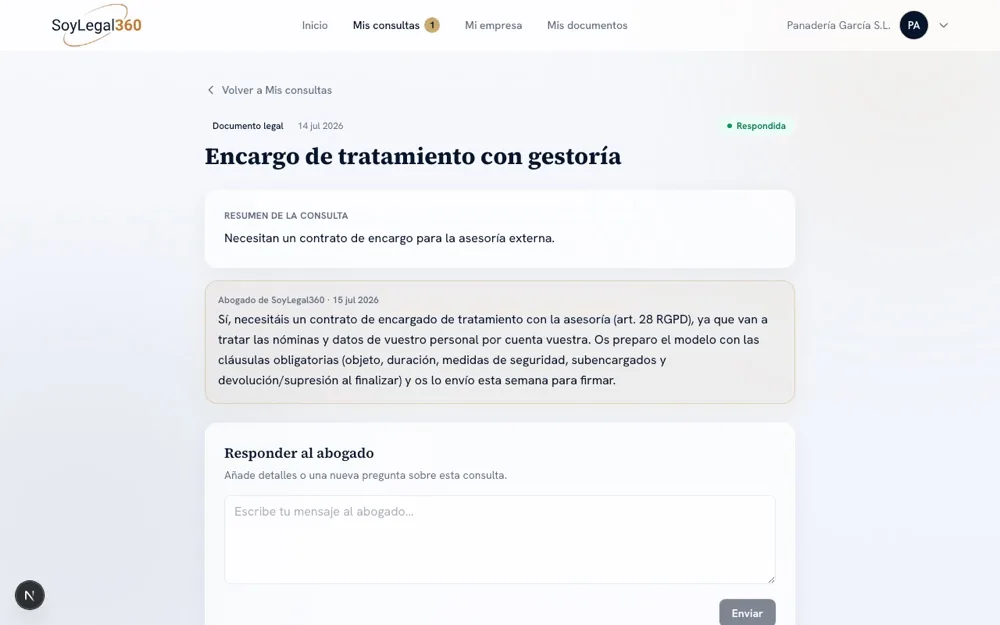
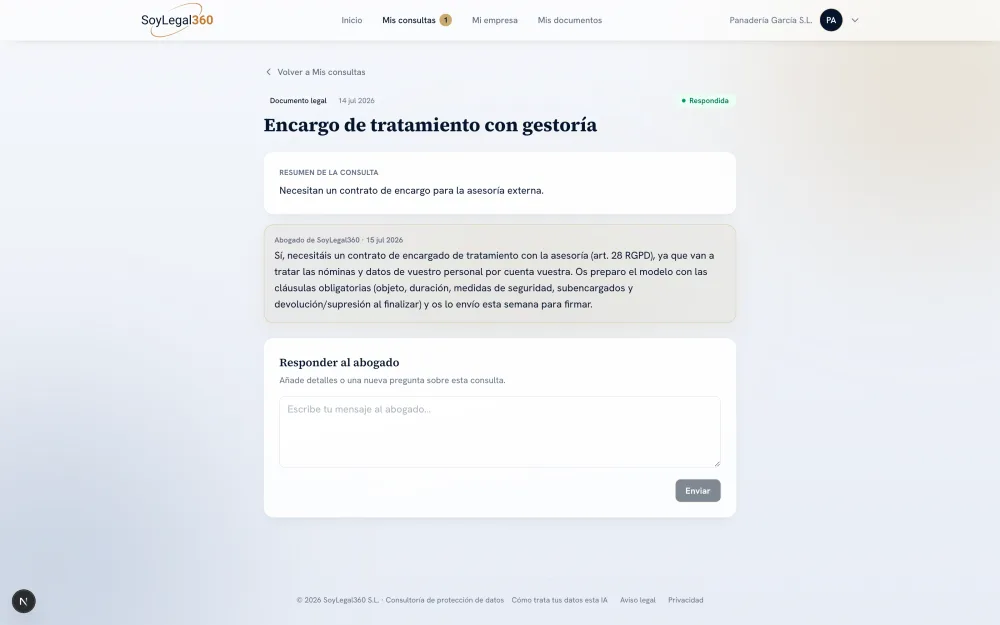
fix(web): capturas del área privada al día tras el rediseño del asistente
El área de cliente se rediseñó (packs, cristal, oro) y el carrusel seguía
enseñando la interfaz anterior: la web vendía una pantalla que el cliente
ya no encuentra al entrar. Se regeneran las tres diapositivas y el póster
del vídeo con capturas nuevas, tomadas de un cliente con datos completos
para que se vea el producto lleno (pack Continua Pyme, bolsa de horas,
consulta respondida por el abogado).

Los alt siguen siendo ciertos: la nueva captura del chat cita el art. 12.3
RGPD y el hilo, el art. 28. Se añade ?v=2 en las tres páginas que las usan
(home, Continua y área de clientes) porque /assets se sirve con caché
inmutable de un año y, sin bump, quien ya visitó la web vería las viejas.

PENDIENTE: el vídeo demo (assets/video/sl-app-demo.mp4) lo compone
scripts/gen-demo-video.py a partir de los .jpg, con rutas de puntero,
encuadres y resaltados calibrados a píxel sobre las capturas anteriores.
Sustituir los .jpg sin recalibrar rompería la coreografía, así que se deja
para una pasada propia.

diff --git a/area-de-clientes/index.html b/area-de-clientes/index.html
@@ -262,7 +262,7 @@
             <span class="sl-area-frame__dots" aria-hidden="true"><i></i><i></i><i></i></span>
             <span class="sl-area-frame__url">clientes.soylegal360.es</span>
           </div>
-          <video src="/assets/video/sl-app-demo.mp4?v=6" width="1000" height="626" autoplay muted loop playsinline preload="metadata" poster="/assets/img/sl-app-dashboard.webp" aria-label="Recorrido por el área privada: dashboard, asistente con cita verificada, respuesta del abogado y documentos"></video>
+          <video src="/assets/video/sl-app-demo.mp4?v=6" width="1000" height="626" autoplay muted loop playsinline preload="metadata" poster="/assets/img/sl-app-dashboard.webp?v=2" aria-label="Recorrido por el área privada: dashboard, asistente con cita verificada, respuesta del abogado y documentos"></video>
         </div>
       </div>
     </section>
@@ -278,7 +278,7 @@
             <p class="sl-area-quote">Si algo es serio, no te deja solo: <b>te lo deriva a un abogado</b> con un clic.</p>
           </div>
           <div class="sl-area-row__media">
-            <img src="/assets/img/sl-app-chat.webp" width="1000" height="625" alt="El asistente respondiendo una duda sobre el derecho de acceso citando el artículo 12 del RGPD" loading="lazy">
+            <img src="/assets/img/sl-app-chat.webp?v=2" width="1000" height="625" alt="El asistente respondiendo una duda sobre el derecho de acceso citando el artículo 12 del RGPD" loading="lazy">
           </div>
         </article>
 
@@ -289,7 +289,7 @@
             <p>Tu pack incluye <strong>consultas con abogado cada mes</strong>. Las planteas desde tu área, el abogado te responde por escrito y todo queda en su hilo: la pregunta, la respuesta y los documentos que salgan de ella.</p>
           </div>
           <div class="sl-area-row__media">
-            <img src="/assets/img/sl-app-consultas.webp" width="1000" height="625" alt="Consulta respondida por un abogado de SoyLegal360 sobre un encargo de tratamiento" loading="lazy">
+            <img src="/assets/img/sl-app-consultas.webp?v=2" width="1000" height="625" alt="Consulta respondida por un abogado de SoyLegal360 sobre un encargo de tratamiento" loading="lazy">
           </div>
         </article>
 
@@ -300,7 +300,7 @@
             <p>Tu RAT, tus políticas y la ficha de tu empresa, <strong>siempre en su última versión</strong>. Se acabó buscar el PDF bueno por el correo.</p>
           </div>
           <div class="sl-area-row__media">
-            <img src="/assets/img/sl-app-documentos.webp" width="1000" height="625" alt="Sección Mis documentos con el RAT, la política de privacidad y la de cookies" loading="lazy">
+            <img src="/assets/img/sl-app-documentos.webp?v=2" width="1000" height="625" alt="Sección Mis documentos con el RAT, la política de privacidad y la de cookies" loading="lazy">
           </div>
         </article>
 

diff --git a/index.html b/index.html
@@ -1594,19 +1594,19 @@
           </div>
           <div class="sl-app-carousel__track" data-track>
             <figure class="sl-app-carousel__slide">
-              <video style="display:block;width:100%;height:auto" src="/assets/video/sl-app-demo.mp4?v=6" width="1000" height="626" autoplay muted loop playsinline preload="metadata" poster="/assets/img/sl-app-dashboard.webp" aria-label="Demostración del área privada: dashboard, pregunta al asistente con cita verificada, respuesta del abogado y documentos"></video>
+              <video style="display:block;width:100%;height:auto" src="/assets/video/sl-app-demo.mp4?v=6" width="1000" height="626" autoplay muted loop playsinline preload="metadata" poster="/assets/img/sl-app-dashboard.webp?v=2" aria-label="Demostración del área privada: dashboard, pregunta al asistente con cita verificada, respuesta del abogado y documentos"></video>
               <figcaption><span class="sl-app-demo-chip">▶ Demo</span> El área completa, en 49 segundos</figcaption>
             </figure>
             <figure class="sl-app-carousel__slide">
-              <img src="/assets/img/sl-app-chat.webp" width="1000" height="625" alt="Conversación real con el asistente citando el artículo 12 del RGPD, verificado por abogados" loading="lazy">
+              <img src="/assets/img/sl-app-chat.webp?v=2" width="1000" height="625" alt="Conversación real con el asistente citando el artículo 12 del RGPD, verificado por abogados" loading="lazy">
               <figcaption>Cita solo lo verificado, nunca «de memoria»</figcaption>
             </figure>
             <figure class="sl-app-carousel__slide">
-              <img src="/assets/img/sl-app-consultas.webp" width="1000" height="625" alt="Hilo de Mis consultas con la respuesta de un abogado de SoyLegal360" loading="lazy">
+              <img src="/assets/img/sl-app-consultas.webp?v=2" width="1000" height="625" alt="Hilo de Mis consultas con la respuesta de un abogado de SoyLegal360" loading="lazy">
               <figcaption>Cuando importa, responde un abogado de verdad</figcaption>
             </figure>
             <figure class="sl-app-carousel__slide">
-              <img src="/assets/img/sl-app-documentos.webp" width="1000" height="625" alt="Mis documentos: RAT, política de privacidad y política de cookies" loading="lazy">
+              <img src="/assets/img/sl-app-documentos.webp?v=2" width="1000" height="625" alt="Mis documentos: RAT, política de privacidad y política de cookies" loading="lazy">
               <figcaption>Tu documentación legal, siempre a mano</figcaption>
             </figure>
           </div>

diff --git a/proteccion-legal-continua/index.html b/proteccion-legal-continua/index.html
@@ -534,19 +534,19 @@
           </div>
           <div class="sl-app-carousel__track" data-track>
             <figure class="sl-app-carousel__slide">
-              <video style="display:block;width:100%;height:auto" src="/assets/video/sl-app-demo.mp4?v=6" width="1000" height="626" autoplay muted loop playsinline preload="metadata" poster="/assets/img/sl-app-dashboard.webp" aria-label="Demostración del área privada: dashboard, pregunta al asistente con cita verificada, respuesta del abogado y documentos"></video>
+              <video style="display:block;width:100%;height:auto" src="/assets/video/sl-app-demo.mp4?v=6" width="1000" height="626" autoplay muted loop playsinline preload="metadata" poster="/assets/img/sl-app-dashboard.webp?v=2" aria-label="Demostración del área privada: dashboard, pregunta al asistente con cita verificada, respuesta del abogado y documentos"></video>
               <figcaption><span class="sl-app-demo-chip">▶ Demo</span> El área completa, en 49 segundos</figcaption>
             </figure>
             <figure class="sl-app-carousel__slide">
-              <img src="/assets/img/sl-app-chat.webp" width="1000" height="625" alt="Conversación real con el asistente citando el artículo 12 del RGPD, verificado por abogados" loading="lazy">
+              <img src="/assets/img/sl-app-chat.webp?v=2" width="1000" height="625" alt="Conversación real con el asistente citando el artículo 12 del RGPD, verificado por abogados" loading="lazy">
               <figcaption>Cita solo lo verificado, nunca «de memoria»</figcaption>
             </figure>
             <figure class="sl-app-carousel__slide">
-              <img src="/assets/img/sl-app-consultas.webp" width="1000" height="625" alt="Hilo de Mis consultas con la respuesta de un abogado de SoyLegal360" loading="lazy">
+              <img src="/assets/img/sl-app-consultas.webp?v=2" width="1000" height="625" alt="Hilo de Mis consultas con la respuesta de un abogado de SoyLegal360" loading="lazy">
               <figcaption>Cuando importa, responde un abogado de verdad</figcaption>
             </figure>
             <figure class="sl-app-carousel__slide">
-              <img src="/assets/img/sl-app-documentos.webp" width="1000" height="625" alt="Mis documentos: RAT, política de privacidad y política de cookies" loading="lazy">
+              <img src="/assets/img/sl-app-documentos.webp?v=2" width="1000" height="625" alt="Mis documentos: RAT, política de privacidad y política de cookies" loading="lazy">
               <figcaption>Tu documentación legal, siempre a mano</figcaption>
             </figure>
           </div>
